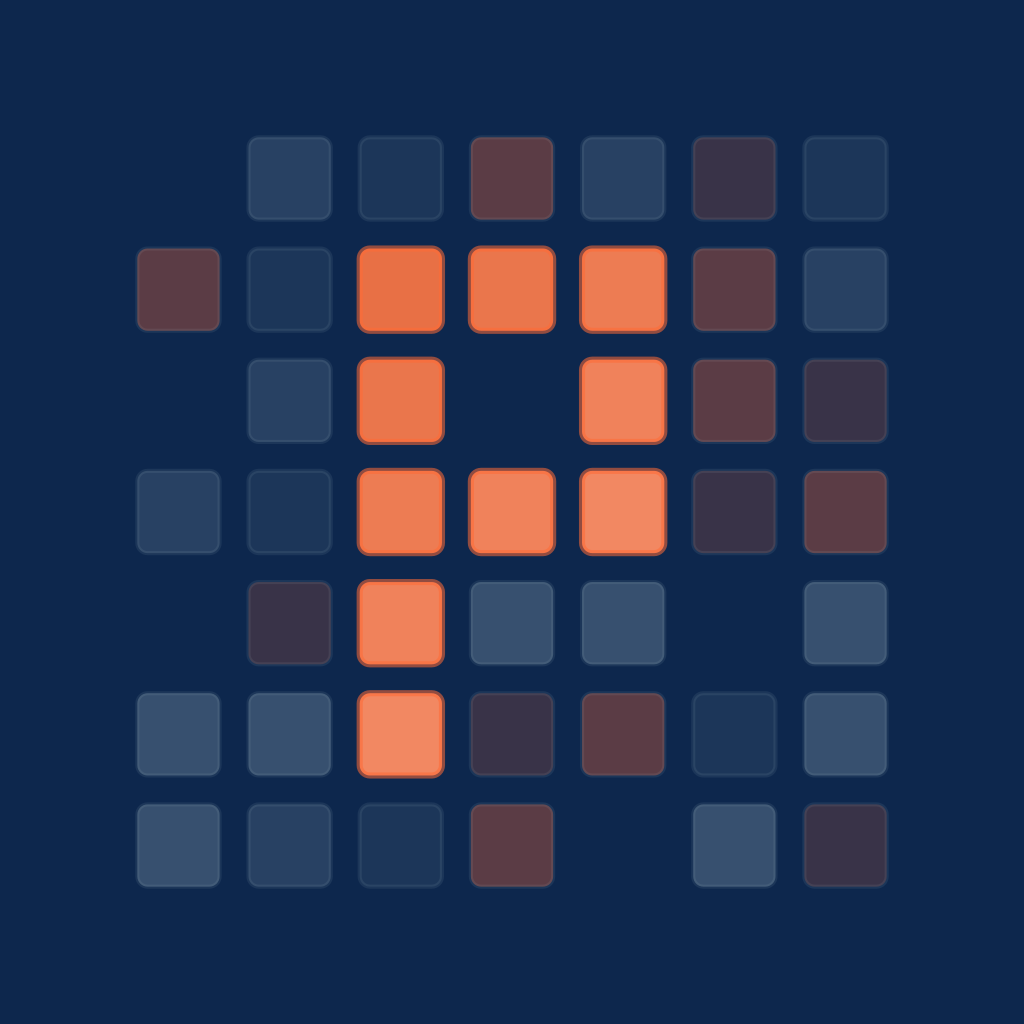
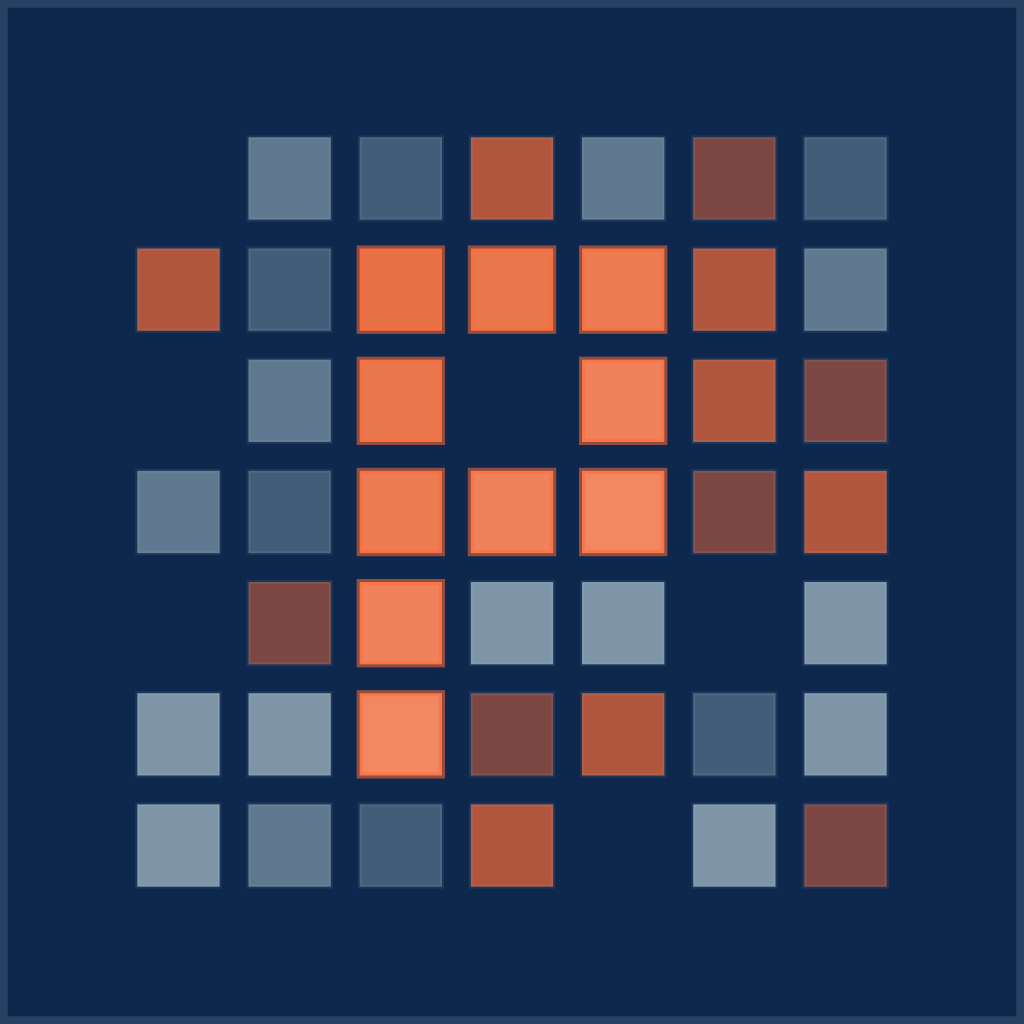
0.1.20 — restore the muted "film" look (P stands out)
Revert the brief de-haze experiment from 0.1.19: opacity default back to
0.9 and city-tile alphas back to the muted originals (0.18–0.55), so the
vivid P reads as the figure against the faded city again. Keeps the
sharp square corners (squareRadius 0) and backgroundSecondary panel.

Also folds in the package.json description/keywords refresh that was
staged in the tree (broader brand description + file-city/trail-city/
brand keywords).

Changed region(s): [[0.125, 0.125, 0.875, 0.875], [0.0, 0.0, 1.0, 1.0]]

diff --git a/src/FileCityLogo.tsx b/src/FileCityLogo.tsx
@@ -280,7 +280,10 @@ export function computeFileCityLayout({
   rounded = true,
   margin = 1,
   aiCard = false,
-  opacity = 1,
+  // Slight global translucency gives the mark a faded "film" quality and
+  // keeps the muted city from competing with the P. Restored after a
+  // brief de-haze experiment that made the city too present.
+  opacity = 0.9,
   gloss = false,
   squareRadius = 0,
 }: FileCityLogoProps): FileCityLayout {
@@ -294,15 +297,15 @@ export function computeFileCityLayout({
     '#0a0f14';
 
   // Same palette weighting as TrailCityDiagram so the two read as a set.
-  // Alphas bumped up from the original (0.36/0.55/0.18/0.3/0.45) so the
-  // muted city tiles keep enough contrast against the lighter
-  // `backgroundSecondary` panel and don't wash out.
+  // The city tiles stay deliberately muted (low alpha) so the vivid,
+  // full-strength `markPalette` P reads as the figure against this faded
+  // "film" of buildings — that contrast is the whole point of the mark.
   const palette = [
-    withAlpha(primaryColor, 0.46),
-    withAlpha(primaryColor, 0.68),
-    withAlpha(baseColor, 0.28),
-    withAlpha(baseColor, 0.42),
-    withAlpha(baseColor, 0.58),
+    withAlpha(primaryColor, 0.36),
+    withAlpha(primaryColor, 0.55),
+    withAlpha(baseColor, 0.18),
+    withAlpha(baseColor, 0.3),
+    withAlpha(baseColor, 0.45),
   ];
 
   // The mark files vary in shade so the letter doesn't read as one flat